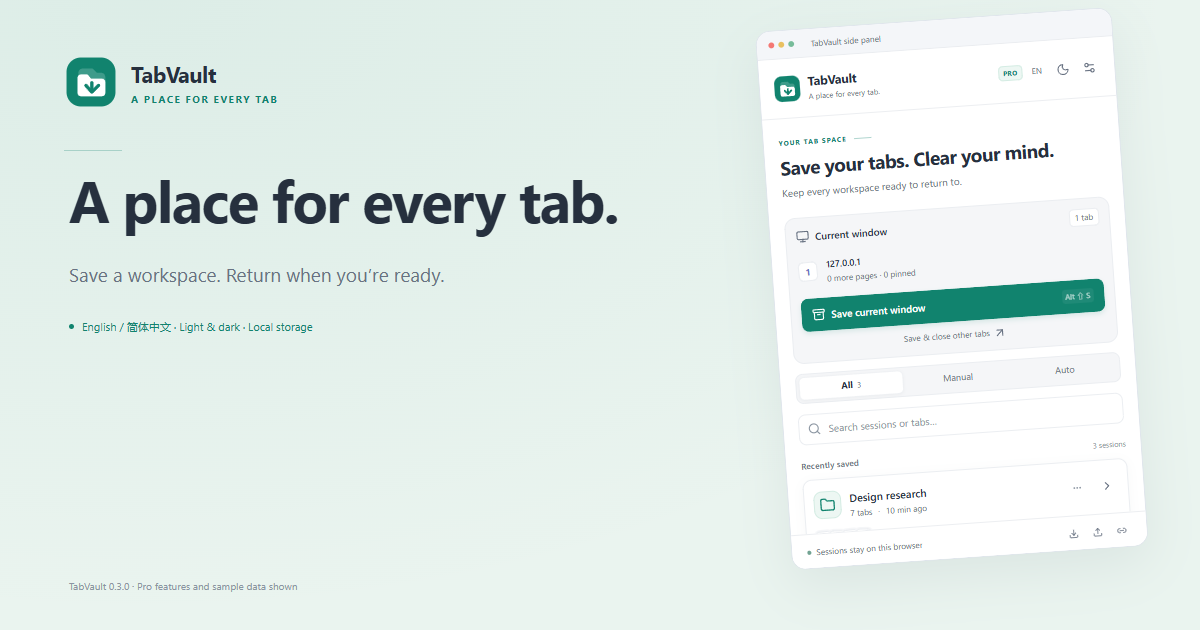
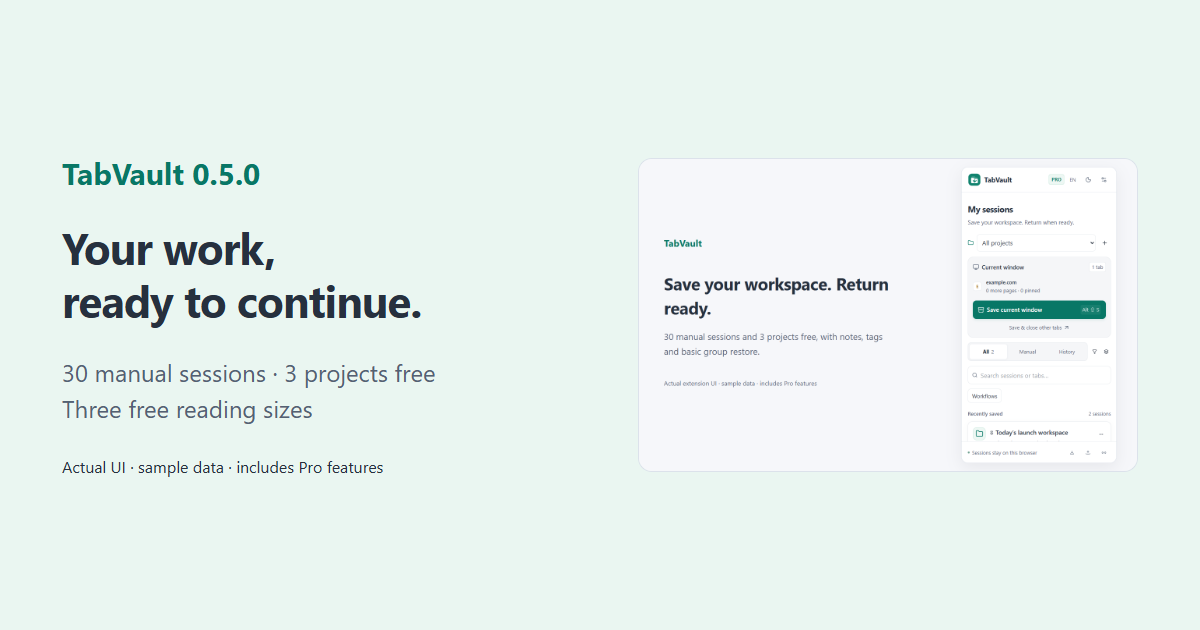
docs: align deployed product website with reading and workflow release

diff --git a/docs/index.html b/docs/index.html
@@ -1,6 +1,5 @@
 <!doctype html>
-<html lang="en"><head>
-<!-- Google tag (gtag.js) -->
+<html lang="en"><head><meta charset="utf-8"><meta name="viewport" content="width=device-width,initial-scale=1"><!-- Google tag (gtag.js) -->
 <script async src="https://www.googletagmanager.com/gtag/js?id=G-V2E93XDB2S"></script>
 <script>
   window.dataLayer = window.dataLayer || [];
@@ -8,11 +7,11 @@
   gtag('js', new Date());
   gtag('config', 'G-V2E93XDB2S', {allow_ad_personalization_signals: false});
 </script>
-<meta charset="utf-8"><meta name="viewport" content="width=device-width, initial-scale=1"><title>TabVault — A place for every tab.</title><meta name="description" content="Save a workspace. Return when you’re ready. Keep your tabs together, so your next session starts with a clear mind."><meta name="release-version" content="0.5.0"><link rel="icon" href="assets/icon-128.png"><link rel="canonical" href="https://tabvault.tabplugins.top/"><meta property="og:type" content="website"><meta property="og:title" content="TabVault — A place for every tab."><meta property="og:description" content="Save a workspace. Return when you’re ready. Keep your tabs together, so your next session starts with a clear mind."><meta property="og:image" content="https://tabvault.tabplugins.top/assets/social-1200x630.png"><meta property="og:image:width" content="1200"><meta property="og:image:height" content="630"><meta name="twitter:card" content="summary_large_image"><meta name="twitter:image" content="https://tabvault.tabplugins.top/assets/social-1200x630.png"><link rel="stylesheet" href="landing.css"><script src="landing.js" defer></script></head>
-<body style="--accent:#11836e;--soft:#eaf4ef"><div class="page"><header><a class="brand" href="./"><img src="assets/logo.svg" width="42" height="42" alt=""><strong>TabVault</strong></a><nav aria-label="Main"><a data-i18n="support" href="SUPPORT.html">Support</a><button id="language" type="button" aria-label="Switch to 简体中文">EN / 中</button></nav></header>
-<main><section class="hero"><div class="hero-copy"><span class="eyebrow" data-i18n="welcome">MADE FOR YOUR SIDEBAR</span><h1 data-i18n="headline">Your work, ready to continue.</h1><p class="lead" data-i18n="lead">Save a workspace. Return when you’re ready. Keep your tabs together, so your next session starts with a clear mind.</p><div class="actions"><a class="button primary" href="https://chromewebstore.google.com/detail/lcdbcmmcbonjgbjnagnbfpaadfnlaimm" data-i18n="install">Add to Chrome</a><a class="button secondary" href="https://pay-tabvault.tabplugins.top/buy" data-i18n="buy">Get Pro</a></div><p class="quiet" data-i18n="footer">Chrome 116+ · Local storage · No account required</p></div><figure class="hero-image"><img data-shot="01" src="assets/en/shot-01.png" alt="TabVault side panel with sample data" width="1280" height="800"><figcaption data-i18n="galleryNote">Actual interface with sample data and Pro features.</figcaption></figure></section>
-<section class="features"><h2 data-i18n="detail">Everything in its place.</h2><div class="feature-grid"><article><span class="number">01</span><h3 data-i18n="feature0">Save your workspace</h3><p data-i18n="body0">Save the HTTP/HTTPS tabs in a window, including repeated URLs and pinned tabs.</p></article><article><span class="number">02</span><h3 data-i18n="feature1">Continue a project</h3><p data-i18n="body1">Save up to 30 sessions in 3 projects for free, with notes, tags and browser group restoration.</p></article><article><span class="number">03</span><h3 data-i18n="feature2">Reuse your workspaces</h3><p data-i18n="body2">Pro adds history differences, named launch plans and cross-session cleanup. Snapshots stay local, with time, count and storage limits.</p></article></div></section>
-<section class="gallery"><div class="section-head"><h2 data-i18n="gallery">A calmer workspace.</h2><div class="quiet"><p data-i18n="language">Follows your browser. English fallback, with a manual language choice.</p><p data-i18n="theme">Light, dark, or follow your system.</p></div></div><div class="gallery-grid"><a class="shot-link" href="assets/en/shot-02.png" target="_blank" rel="noopener"><img data-shot="02" src="assets/en/shot-02.png" alt="TabVault feature 2" width="1280" height="800" loading="lazy"></a><a class="shot-link" href="assets/en/shot-03.png" target="_blank" rel="noopener"><img data-shot="03" src="assets/en/shot-03.png" alt="TabVault feature 3" width="1280" height="800" loading="lazy"></a><a class="shot-link" href="assets/en/shot-04.png" target="_blank" rel="noopener"><img data-shot="04" src="assets/en/shot-04.png" alt="TabVault feature 4" width="1280" height="800" loading="lazy"></a><a class="shot-link" href="assets/en/shot-05.png" target="_blank" rel="noopener"><img data-shot="05" src="assets/en/shot-05.png" alt="TabVault feature 5" width="1280" height="800" loading="lazy"></a></div></section>
-<section class="plans"><article><span class="eyebrow" data-i18n="free">Free</span><h2 data-i18n="free">Free</h2><ul id="free-features"><li>30 manual sessions · 3 projects</li><li>Notes, tags, pins and search</li><li>JSON backup and basic Markdown export</li><li>Selective restore, groups and duplicate skipping</li><li>Optional snapshots: up to 24 hours / 50 copies / 4 MB</li></ul><a class="button secondary" href="https://chromewebstore.google.com/detail/lcdbcmmcbonjgbjnagnbfpaadfnlaimm" data-i18n="install">Add to Chrome</a></article><article class="pro-plan"><span class="eyebrow" data-i18n="once">One-time $6 license</span><h2 data-i18n="pro">Pro</h2><ul id="pro-features"><li>More sessions and projects</li><li>History differences and batch recovery</li><li>Named launch plans across windows</li><li>Cross-session cleanup</li><li>Snapshots: up to 30 days / 500 copies / 4 MB</li></ul><a class="button primary" href="https://pay-tabvault.tabplugins.top/buy" data-i18n="buy">Get Pro</a></article></section>
-<section class="privacy"><span class="eyebrow">LOCAL FIRST</span><h2 data-i18n="privacyTitle">Your workspace stays local.</h2><p data-i18n="privacy">Sessions, snapshots and preferences stay in your browser. Automatic backup is off by default. It can restore content present in an existing snapshot. No extension usage analytics.</p><a href="PRIVACY.html" data-i18n="policy">Privacy policy</a></section></main>
-<footer><span>TabVault 0.4.1</span><div><a href="PRIVACY.html" data-i18n="policy">Privacy policy</a><a href="SUPPORT.html" data-i18n="support">Support</a><a href="https://tabtasks.tabplugins.top/" data-i18n="related">Explore TabTasks</a></div></footer></div></body></html>
+<title>TabVault — Your work, ready to continue.</title><meta name="description" content="Keep the pages and context that matter. Find missing tabs, reuse a named workspace, and return at your own pace."><meta name="release-version" content="0.5.0"><link rel="canonical" href="https://tabvault.tabplugins.top/"><link rel="icon" href="assets/icon-128.png"><meta property="og:type" content="website"><meta property="og:title" content="TabVault 0.5.0"><meta property="og:description" content="Keep the pages and context that matter. Find missing tabs, reuse a named workspace, and return at your own pace."><meta property="og:image" content="https://tabvault.tabplugins.top/assets/social-1200x630.png"><meta property="og:image:width" content="1200"><meta property="og:image:height" content="630"><meta name="twitter:card" content="summary_large_image"><meta name="twitter:image" content="https://tabvault.tabplugins.top/assets/social-1200x630.png"><link rel="stylesheet" href="landing.css"><script src="landing.js" defer></script></head>
+<body style="--accent:#087766;--soft:#eaf4ef"><div class="page"><header><a class="brand" href="./"><img src="assets/logo.svg" width="42" height="42" alt=""><strong>TabVault</strong></a><nav aria-label="Main"><a href="SUPPORT.html" data-i18n="support">Support</a><button id="language" type="button" aria-label="Switch to 简体中文">EN / 中</button></nav></header>
+<main><p class="release-note" data-i18n="releaseNote">This page presents TabVault 0.5.0. Store review and update distribution may take longer; check your installed version.</p><section class="hero"><div class="hero-copy"><span class="eyebrow" data-i18n="welcome">MADE FOR YOUR SIDEBAR</span><h1 data-i18n="headline">Your work, ready to continue.</h1><p class="lead" data-i18n="lead">Keep the pages and context that matter. Find missing tabs, reuse a named workspace, and return at your own pace.</p><div class="actions"><a class="button primary" href="https://chromewebstore.google.com/detail/lcdbcmmcbonjgbjnagnbfpaadfnlaimm" data-i18n="install">View in Chrome Web Store</a><a class="button secondary" href="https://pay-tabvault.tabplugins.top/buy" data-i18n="buy">Get Pro</a></div><p class="quiet" data-i18n="footer">Chrome 116+ · Local storage · No account required</p></div><figure class="hero-image"><img data-shot="01" src="assets/en/shot-01.png" alt="TabVault 0.5.0 side panel" width="1280" height="800"><figcaption data-i18n="galleryNote">Actual interface with sample data and Pro features.</figcaption></figure></section>
+<section class="features"><h2 data-i18n="detail">Everything in its place.</h2><div class="feature-grid"><article><span class="number">01</span><h3 data-i18n="feature0">Save your workspace</h3><p data-i18n="body0">Save up to 30 manual sessions in 3 projects for free. Keep notes, tags, pins and search alongside your saved pages.</p></article><article><span class="number">02</span><h3 data-i18n="feature1">Restore what you need</h3><p data-i18n="body1">Select pages, restore browser groups and pinned tabs, and skip already-open URLs for free. Compare records for free; Pro batch-recovers selected missing pages.</p></article><article><span class="number">03</span><h3 data-i18n="feature2">Reuse your workspaces</h3><p data-i18n="body2">Save named multi-window launch plans and apply cross-session cleanup with Pro. Review first, preserve source context, and undo the last supported local data change.</p></article><article><span class="number">04</span><h3 data-i18n="feature3">Comfortable to read</h3><p data-i18n="body3">Compact, standard or large text is free. Follow your browser language with English fallback, or switch between English and Simplified Chinese.</p></article></div></section>
+<section class="gallery"><div class="section-head"><h2 data-i18n="gallery">A calmer workspace.</h2><div class="quiet"><p data-i18n="language">Follows your browser. English fallback, with a manual language choice.</p><p data-i18n="theme">Light, dark, or follow your system.</p></div></div><div class="gallery-grid"><figure class="gallery-item"><a class="shot-link" href="assets/en/shot-02.png" target="_blank" rel="noopener"><img data-shot="02" src="assets/en/shot-02.png" alt="Compare real records · Pro batch recovery" width="1280" height="800" loading="lazy"></a><figcaption data-i18n="shot02">Compare real records · Pro batch recovery</figcaption></figure><figure class="gallery-item"><a class="shot-link" href="assets/en/shot-03.png" target="_blank" rel="noopener"><img data-shot="03" src="assets/en/shot-03.png" alt="Named multi-window launch plans · Pro" width="1280" height="800" loading="lazy"></a><figcaption data-i18n="shot03">Named multi-window launch plans · Pro</figcaption></figure><figure class="gallery-item"><a class="shot-link" href="assets/en/shot-04.png" target="_blank" rel="noopener"><img data-shot="04" src="assets/en/shot-04.png" alt="Review cross-session cleanup · Pro to apply" width="1280" height="800" loading="lazy"></a><figcaption data-i18n="shot04">Review cross-session cleanup · Pro to apply</figcaption></figure><figure class="gallery-item"><a class="shot-link" href="assets/en/shot-05.png" target="_blank" rel="noopener"><img data-shot="05" src="assets/en/shot-05.png" alt="Three reading sizes · free for everyone" width="1280" height="800" loading="lazy"></a><figcaption data-i18n="shot05">Three reading sizes · free for everyone</figcaption></figure></div></section>
+<section class="plans"><article class="free-plan"><span class="eyebrow" data-i18n="free">Free</span><h2 data-i18n="free">Free</h2><ul id="free-features"><li>30 manual sessions · 3 projects</li><li>Notes, tags, pins and title/URL search</li><li>JSON backup · basic Markdown and link export</li><li>Selected-page, group and pinned-tab restore</li><li>Skip open duplicates · preview differences</li><li>Preview launch editing and duplicate references</li><li>Three text sizes · local data-change undo</li><li>Optional snapshots: up to 24 hours / 50 / 4 MB</li></ul><a class="button primary" href="https://chromewebstore.google.com/detail/lcdbcmmcbonjgbjnagnbfpaadfnlaimm" data-i18n="install">View in Chrome Web Store</a></article><article class="pro-plan"><span class="eyebrow" data-i18n="once">One-time $6 license</span><h2 data-i18n="pro">Pro</h2><p class="price" data-i18n="price">$6 · one-time purchase</p><ul id="pro-features"><li>No manual-session or project count limits</li><li>Batch-recover selected missing pages</li><li>Save named multi-window launch plans</li><li>Apply reviewed cross-session cleanup</li><li>Advanced batch organization and project launch</li><li>CSV export</li><li>Snapshots: up to 30 days / 500 / 4 MB</li></ul><a class="button secondary" href="https://pay-tabvault.tabplugins.top/buy" data-i18n="buy">Get Pro</a></article></section><div class="plan-notes"><p data-i18n="limitNote">Automatic snapshots are off by default. Free: up to 24 hours / 50 snapshots; Pro: up to 30 days / 500. Both share a 4 MB total snapshot limit, so actual coverage can be shorter. Snapshot cleanup does not delete manual sessions.</p><p data-i18n="priceNote">Applicable tax is shown at checkout. Each product is purchased separately. Existing Pro licenses include this update.</p><p data-i18n="purchaseNote">Start in the extension for automatic activation after payment verification. Email recovery and existing license codes remain available.</p></div>
+<section class="faq"><h2 data-i18n="faqTitle">Before you start</h2><details><summary data-i18n="faqQ0">Is my content synced to a cloud?</summary><p data-i18n="faqA0">No. Content and reusable workflows stay in this browser. JSON backups are available on Free; export before changing devices or uninstalling. Credentials and Pro licenses are excluded. The extension has no usage analytics; website traffic analytics is separate.</p></details><details><summary data-i18n="faqQ1">What can a restore bring back?</summary><p data-i18n="faqA1">Saved URLs and supported tab metadata, including pinned tabs and browser groups. It does not restore passwords, logins, form inputs or unsaved page state. Launch plans open selected windows in sequence; stopping takes effect after the current window finishes. Automatic history can only restore records that were actually saved.</p></details><details><summary data-i18n="faqQ2">How does a Pro purchase work?</summary><p data-i18n="faqA2">Each product has an optional $6 one-time Pro purchase, with applicable tax shown at checkout. Purchases started in the extension support verified automatic activation. For another device, use purchase-email recovery or an existing license code.</p></details></section><section class="privacy"><span class="eyebrow">LOCAL FIRST</span><h2 data-i18n="privacyTitle">Your workspace stays local.</h2><p data-i18n="privacy">Sessions, snapshots and preferences stay in your browser. Automatic backup is off by default. It can restore content present in an existing snapshot. No extension usage analytics.</p><a href="PRIVACY.html" data-i18n="policy">Privacy policy</a></section></main>
+<footer><span data-i18n="versionLabel">Features shown: TabVault 0.5.0</span><div><a href="PRIVACY.html" data-i18n="policy">Privacy policy</a><a href="SUPPORT.html" data-i18n="support">Support</a><a href="https://tabtasks.tabplugins.top/" data-i18n="related">Explore TabTasks</a></div></footer></div></body></html>

diff --git a/docs/landing.js b/docs/landing.js
@@ -1,1 +1,3 @@
-const words={"headline":["Your work, ready to continue.","工作现场，随时继续。"],"lead":["Save a workspace. Return when you’re ready. Keep your tabs together, so your next session starts with a clear mind.","保存工作现场，随时继续思路。把标签页收在一起，让下一次开始更轻松。"],"install":["Add to Chrome","添加到 Chrome"],"buy":["Get Pro","购买 Pro"],"welcome":["MADE FOR YOUR SIDEBAR","为浏览器侧栏而设计"],"detail":["Everything in its place.","让每件事各有位置。"],"gallery":["A calmer workspace.","更安静的工作空间。"],"galleryNote":["Actual interface with sample data and Pro features.","实际界面，含示例数据与 Pro 功能。"],"free":["Free","免费版"],"pro":["Pro","Pro 专业版"],"once":["One-time $6 license","一次性 $6 买断"],"language":["Follows your browser. English fallback, with a manual language choice.","默认跟随浏览器语言，识别失败使用英文，也可手动选择。"],"theme":["Light, dark, or follow your system.","浅色、深色或跟随系统。"],"privacyTitle":["Your workspace stays local.","工作空间保存在本机。"],"privacy":["Sessions, snapshots and preferences stay in your browser. Automatic backup is off by default. It can restore content present in an existing snapshot. No extension usage analytics.","会话、快照与偏好保存在浏览器本机。自动备份默认关闭，只能恢复已有快照中的内容；插件内不收集使用统计。"],"policy":["Privacy policy","隐私政策"],"support":["Support","支持"],"related":["Explore TabTasks","看看 TabTasks"],"footer":["Chrome 116+ · Local storage · No account required","Chrome 116+ · 本地存储 · 无需账号"],"feature0":["Save your workspace","收好工作现场"],"body0":["Save the HTTP/HTTPS tabs in a window, including repeated URLs and pinned tabs.","保存窗口中的 HTTP/HTTPS 网页，包括重复网址和固定标签。"],"feature1":["Continue a project","继续每个项目"],"body1":["Save up to 30 sessions in 3 projects for free, with notes, tags and browser group restoration.","免费保存 30 个会话、创建 3 个项目，使用备注、标签和浏览器分组恢复。"],"feature2":["Reuse your workspaces","复用工作现场"],"body2":["Pro adds history differences, named launch plans and cross-session cleanup. Snapshots stay local, with time, count and storage limits.","Pro 提供历史差异找回、命名启动方案和跨会话整理。快照保存在本机，受时间、份数与容量约束。"]},plans={"free":["30 manual sessions · 3 projects|Notes, tags, pins and search|JSON backup and basic Markdown export|Selective restore, groups and duplicate skipping|Optional snapshots: up to 24 hours / 50 copies / 4 MB","30 个手动会话 · 3 个项目|备注、标签、置顶与搜索|JSON 备份与基本 Markdown 导出|选择标签恢复、分组与跳过重复|可选快照：最长 24 小时 / 50 份 / 4 MB"],"pro":["More sessions and projects|History differences and batch recovery|Named launch plans across windows|Cross-session cleanup|Snapshots: up to 30 days / 500 copies / 4 MB","更多会话与项目|历史差异与批量找回|跨窗口命名启动方案|跨会话整理|快照：最长 30 天 / 500 份 / 4 MB"]};let lang=/^zh(?:-|$)/i.test(navigator.language||'')?'zh':'en';try{const saved=localStorage.getItem('tabvault_site_language');if(['en','zh'].includes(saved))lang=saved}catch{}function render(){const index=lang==='zh'?1:0;document.documentElement.lang=lang==='zh'?'zh-CN':'en';for(const node of document.querySelectorAll('[data-i18n]'))node.textContent=words[node.dataset.i18n][index];for(const node of document.querySelectorAll('[data-shot]')){node.src='assets/'+lang+'/shot-'+node.dataset.shot+'.png';if(node.parentElement.classList.contains('shot-link'))node.parentElement.href=node.src}for(const key of ['free','pro']){const ul=document.getElementById(key+'-features');ul.replaceChildren(...plans[key][index].split('|').map(text=>{const li=document.createElement('li');li.textContent=text;return li}))}document.getElementById('language').setAttribute('aria-label',lang==='en'?'Switch to 简体中文':'Switch to English')}document.getElementById('language').addEventListener('click',()=>{lang=lang==='en'?'zh':'en';try{localStorage.setItem('tabvault_site_language',lang)}catch{}render()});render();
+const words={"headline":["Your work, ready to continue.","工作现场，随时继续。"],"lead":["Keep the pages and context that matter. Find missing tabs, reuse a named workspace, and return at your own pace.","收好页面与项目背景，找回缺页、复用命名工作台，按自己的节奏继续。"],"install":["View in Chrome Web Store","前往 Chrome 商店"],"buy":["Get Pro","购买 Pro"],"welcome":["MADE FOR YOUR SIDEBAR","为浏览器侧栏而设计"],"detail":["Everything in its place.","让每件事各有位置。"],"gallery":["A calmer workspace.","更安静的工作空间。"],"galleryNote":["Actual interface with sample data and Pro features.","实际界面，含示例数据与 Pro 功能。"],"free":["Free","免费版"],"pro":["Pro","Pro 专业版"],"once":["One-time $6 license","一次性 $6 买断"],"language":["Follows your browser. English fallback, with a manual language choice.","默认跟随浏览器语言，识别失败使用英文，也可手动选择。"],"theme":["Light, dark, or follow your system.","浅色、深色或跟随系统。"],"privacyTitle":["Your workspace stays local.","工作空间保存在本机。"],"privacy":["Sessions, snapshots and preferences stay in your browser. Automatic backup is off by default. It can restore content present in an existing snapshot. No extension usage analytics.","会话、快照与偏好保存在浏览器本机。自动备份默认关闭，只能恢复已有快照中的内容；插件内不收集使用统计。"],"policy":["Privacy policy","隐私政策"],"support":["Support","支持"],"related":["Explore TabTasks","看看 TabTasks"],"footer":["Chrome 116+ · Local storage · No account required","Chrome 116+ · 本地存储 · 无需账号"],"feature0":["Save your workspace","收好工作现场"],"body0":["Save up to 30 manual sessions in 3 projects for free. Keep notes, tags, pins and search alongside your saved pages.","免费保存 30 个手动会话、创建 3 个项目，将备注、标签、置顶和搜索与网页资料放在一起。"],"feature1":["Restore what you need","恢复需要的页面"],"body1":["Select pages, restore browser groups and pinned tabs, and skip already-open URLs for free. Compare records for free; Pro batch-recovers selected missing pages.","选页恢复、浏览器分组、固定标签与跳过已打开网址免费。差异比较免费预览，Pro 可批量找回所选缺页。"],"feature2":["Reuse your workspaces","复用工作现场"],"body2":["Save named multi-window launch plans and apply cross-session cleanup with Pro. Review first, preserve source context, and undo the last supported local data change.","Pro 可保存多窗口命名启动方案、应用跨会话整理。先预览再操作，保留来源背景，并可撤销最近一次受支持的本地数据修改。"],"releaseNote":["This page presents TabVault 0.5.0. Store review and update distribution may take longer; check your installed version.","本页介绍 TabVault 0.5.0。商店审核与更新分发可能存在时间差，请以实际安装版本为准。"],"versionLabel":["Features shown: TabVault 0.5.0","本页功能版本：TabVault 0.5.0"],"feature3":["Comfortable to read","用舒服的字号继续"],"body3":["Compact, standard or large text is free. Follow your browser language with English fallback, or switch between English and Simplified Chinese.","紧凑、标准、大字均免费。默认跟随浏览器语言，识别失败或未支持时使用英文，也可手动切换中英文。"],"price":["$6 · one-time purchase","$6 · 一次性买断"],"priceNote":["Applicable tax is shown at checkout. Each product is purchased separately. Existing Pro licenses include this update.","适用税费以结账页为准，两款产品分别购买。已有 Pro 授权包含本次更新。"],"purchaseNote":["Start in the extension for automatic activation after payment verification. Email recovery and existing license codes remain available.","从插件内发起购买，经服务核验付款后自动激活；也支持邮箱恢复和已有授权码。"],"faqTitle":["Before you start","开始前，了解这几件事"],"faqQ0":["Is my content synced to a cloud?","内容会同步到云端吗？"],"faqA0":["No. Content and reusable workflows stay in this browser. JSON backups are available on Free; export before changing devices or uninstalling. Credentials and Pro licenses are excluded. The extension has no usage analytics; website traffic analytics is separate.","不会。内容与可复用流程保存在本机浏览器。JSON 备份免费，换设备或卸载前请先导出；备份不含凭证和 Pro 授权。插件内不收集使用统计，官网访问统计另行披露。"],"faqQ2":["How does a Pro purchase work?","Pro 怎样购买和恢复？"],"faqA2":["Each product has an optional $6 one-time Pro purchase, with applicable tax shown at checkout. Purchases started in the extension support verified automatic activation. For another device, use purchase-email recovery or an existing license code.","每款 Pro 均为可选的 $6 一次性买断，税费以结账页为准。从插件发起购买后支持核验并自动激活；换设备可用购买邮箱恢复或已有授权码。"],"limitNote":["Automatic snapshots are off by default. Free: up to 24 hours / 50 snapshots; Pro: up to 30 days / 500. Both share a 4 MB total snapshot limit, so actual coverage can be shorter. Snapshot cleanup does not delete manual sessions.","自动快照默认关闭。免费最长 24 小时／50 份，Pro 最长 30 天／500 份，两者均受快照合计 4 MB 限制，实际范围可能更短。快照清理不删除手动会话。"],"faqQ1":["What can a restore bring back?","恢复能带回哪些内容？"],"faqA1":["Saved URLs and supported tab metadata, including pinned tabs and browser groups. It does not restore passwords, logins, form inputs or unsaved page state. Launch plans open selected windows in sequence; stopping takes effect after the current window finishes. Automatic history can only restore records that were actually saved.","恢复已保存的网址及受支持的固定状态、浏览器分组等元数据，不恢复密码、登录态、表单输入或未提交网页状态。启动方案按窗口依次打开，停止在当前窗口处理完后生效；自动历史只能找回实际已保存的记录。"],"shot02":["Compare real records · Pro batch recovery","对比真实记录 · Pro 批量找回"],"shot03":["Named multi-window launch plans · Pro","多窗口命名启动方案 · Pro"],"shot04":["Review cross-session cleanup · Pro to apply","跨会话整理预览 · Pro 应用清理"],"shot05":["Three reading sizes · free for everyone","三档阅读字号 · 所有用户免费"]},plans={"free":["30 manual sessions · 3 projects|Notes, tags, pins and title/URL search|JSON backup · basic Markdown and link export|Selected-page, group and pinned-tab restore|Skip open duplicates · preview differences|Preview launch editing and duplicate references|Three text sizes · local data-change undo|Optional snapshots: up to 24 hours / 50 / 4 MB","30 个手动会话 · 3 个项目|备注、标签、置顶与标题／网址搜索|JSON 备份 · 基本 Markdown／链接导出|选页、浏览器分组及固定标签恢复|跳过已打开网址 · 差异预览|启动方案编辑与重复引用预览|三档字号 · 最近一次本地数据修改撤销|可选快照：最长 24 小时／50 份／4 MB"],"pro":["No manual-session or project count limits|Batch-recover selected missing pages|Save named multi-window launch plans|Apply reviewed cross-session cleanup|Advanced batch organization and project launch|CSV export|Snapshots: up to 30 days / 500 / 4 MB","解除手动会话与项目数量限制|批量找回所选缺页|保存多窗口命名启动方案|预览后应用跨会话整理|高级批量整理与项目启动|CSV 导出|快照：最长 30 天／500 份／4 MB"]};let lang='en';try{lang=/^zh(?:-|$)/i.test(navigator.language||'')?'zh':'en'}catch{}try{const saved=localStorage.getItem('tabvault_site_language');if(['en','zh'].includes(saved))lang=saved}catch{}
+function render(){const index=lang==='zh'?1:0;document.documentElement.lang=lang==='zh'?'zh-CN':'en';for(const node of document.querySelectorAll('[data-i18n]'))node.textContent=words[node.dataset.i18n][index];for(const node of document.querySelectorAll('[data-shot]')){node.src='assets/'+lang+'/shot-'+node.dataset.shot+'.png';node.alt=node.dataset.shot==='01'?'TabVault 0.5.0 · '+words.galleryNote[index]:words['shot'+node.dataset.shot][index];if(node.parentElement.classList.contains('shot-link'))node.parentElement.href=node.src}for(const key of ['free','pro']){document.getElementById(key+'-features').replaceChildren(...plans[key][index].split('|').map(text=>{const li=document.createElement('li');li.textContent=text;return li}))}document.getElementById('language').setAttribute('aria-label',lang==='en'?'Switch to 简体中文':'Switch to English')}
+document.getElementById('language').addEventListener('click',()=>{lang=lang==='en'?'zh':'en';try{localStorage.setItem('tabvault_site_language',lang)}catch{}render()});render();

diff --git a/docs/SUPPORT.html b/docs/SUPPORT.html
@@ -1,11 +1,11 @@
-<!doctype html><html lang="en"><head><meta charset="utf-8"><meta name="viewport" content="width=device-width,initial-scale=1"><title>TabVault — Support 支持中心</title><style>body{font:15px/1.8 system-ui,"Segoe UI","Microsoft YaHei",sans-serif;max-width:760px;margin:40px auto;padding:0 22px;color:#26303e}h1{font-size:28px}h2{font-size:21px;margin-top:36px}h3{font-size:16px;margin:24px 0 6px}a{color:#6154df}.date,footer{color:#738094;font-size:13px}footer{margin-top:40px;border-top:1px solid #e1e7ef;padding-top:16px}</style></head><body><h1>TabVault — Support 支持中心</h1><p class="date">Updated / 生效日期：2026-10-09</p><h2>English</h2><h3>Open and update</h3><p>Click the toolbar icon. Chrome 116+ is required. Update the existing extension without uninstalling, which deletes local content. Alt+Shift+S saves the current window.</p>
+<!doctype html><html lang="en"><head><meta charset="utf-8"><meta name="viewport" content="width=device-width,initial-scale=1"><title>TabVault — Support 支持中心</title><style>body{font:16px/1.8 system-ui,"Segoe UI","Microsoft YaHei",sans-serif;max-width:760px;margin:40px auto;padding:0 22px;color:#26303e}h1{font-size:28px}h2{font-size:21px;margin-top:36px}h3{font-size:16px;margin:24px 0 6px}a{color:#6154df}.date,footer{color:#738094;font-size:13px}footer{margin-top:40px;border-top:1px solid #e1e7ef;padding-top:16px}</style></head><body><h1>TabVault — Support 支持中心</h1><p class="date">Updated / 生效日期：2026-10-17</p><h2>English</h2><h3>Reading and language</h3><p>This page describes TabVault 0.5.0. Choose Compact, Standard or Large in Settings for free. The default follows browser language, with English fallback; EN / 中 switches manually. Check your installed version because store review and distribution can lag behind this page.</p><h3>Open and update</h3><p>Click the toolbar icon. Chrome 116+ is required. Update the existing extension without uninstalling, which deletes local content. Alt+Shift+S saves the current window.</p>
 <h3>Activate or restore Pro</h3><p>Use Settings → Explore Pro to buy. Purchases started inside the extension activate automatically after verified payment. If you closed checkout, open the panel and check payment status; avoid paying again. In purchase management, Restore purchase verifies the checkout email. If email recovery is not configured, use Have a license code? with your saved code or contact support privately. Website purchases and older extension versions can use the fallback code.</p>
-<h3>Local backups</h3><p>JSON import/export is free. Old over-quota backups remain readable, restorable and exportable; the creation quota applies only to new manual saves. Projects and advanced organization require Pro.</p>
-<h3>History and restore</h3><p>Auto-backup is off by default. Enable it in Settings; Chrome must be running. The interval starts at 15 minutes and incognito windows are excluded. Free keeps 3 recent snapshots; Pro up to 30 days, 500 snapshots and 4 MB across windows. Manual sessions are kept separately. Restore URLs, order and pinned state; Pro can also restore browser groups and skip open duplicate URLs. Project restore opens one window per saved session. Partial or skipped restores preserve the original session even with delete-after-restore enabled. Page form state is not saved.</p>
+<h3>Local backups</h3><p>JSON import/export is free. Old over-quota backups remain readable, restorable and exportable; the creation quota applies only to new manual saves. Free includes 3 projects, session notes/tags/pins, selected-page/group restore and duplicate skipping. Pro removes manual-session/project count limits and adds advanced organization, batch missing-page recovery, named launch plans and reviewed cleanup.</p>
+<h3>History and restore</h3><p>Auto-backup is off by default. Enable it in Settings; Chrome must be running. The interval starts at 15 minutes and incognito windows are excluded. Free retains up to 24 hours and 50 snapshots; Pro up to 30 days and 500. Both have a total snapshot limit of 4 MB, so actual coverage may be shorter. Manual sessions are kept separately. Restore URLs, order and pinned state; Browser-group restore and skipping open duplicate URLs are available on Free. Project restore opens one window per saved session. Partial or skipped restores preserve the original session even with delete-after-restore enabled. Page form state is not saved.</p>
 <h3>Refunds</h3><p>Request a full refund within 14 days of purchase using your Stripe receipt, by emailing <a href="mailto:support@tabplugins.top?subject=TabVault%20support">support@tabplugins.top</a>. Older purchases are handled case by case. Refunds prevent new server license retrieval; already activated offline licenses are not automatically revoked.</p>
-<h3>Contact</h3><p>For bugs, purchase help, refunds or privacy requests, email <a href="mailto:support@tabplugins.top?subject=TabVault%20support">support@tabplugins.top</a>. Include the product name, extension version and a description. For an order request, include your Stripe receipt or checkout reference privately. Never send API keys or license codes. Replies within 2 business days.</p><h2>中文</h2><h3>打开与更新</h3><p>点击工具栏图标，需要 Chrome 116+。直接更新原扩展；卸载会删除本地内容。Alt+Shift+S 保存当前窗口。</p>
+<h3>Contact</h3><p>For bugs, purchase help, refunds or privacy requests, email <a href="mailto:support@tabplugins.top?subject=TabVault%20support">support@tabplugins.top</a>. Include the product name, extension version and a description. For an order request, include your Stripe receipt or checkout reference privately. Never send API keys or license codes. Replies within 2 business days.</p><h2>中文</h2><h3>字号与语言</h3><p>本页介绍 TabVault 0.5.0。在设置中免费选择紧凑、标准或大字。默认跟随浏览器语言，未支持或识别失败时用英文，EN／中可手动切换。商店审核与分发可能滞后，请核对实际安装版本。</p><h3>打开与更新</h3><p>点击工具栏图标，需要 Chrome 116+。直接更新原扩展；卸载会删除本地内容。Alt+Shift+S 保存当前窗口。</p>
 <h3>激活与恢复购买</h3><p>在设置 → 了解 Pro 中购买，确认付款后会自动激活。关闭付款页后也可返回插件检查付款状态，请勿重复付款。“管理购买”中的“恢复购买”通过结账邮箱验证码核实。若邮件服务暂未配置，可在“已有授权码？”输入保存的授权码，或私下联系支持。从网站购买及旧版插件可使用备用授权码。</p>
-<h3>本地备份</h3><p>JSON 导入导出免费；旧备份即使超过免费额度仍可阅读、恢复和导出，额度仅限制新建手动会话。项目空间和高级整理需要 Pro。</p>
-<h3>历史与恢复</h3><p>自动备份默认关闭，在设置主动开启，Chrome 需运行；默认间隔 15 分钟，排除隐身窗口。免费保留最近 3 份，Pro 跨窗口最长 30 天、最多 500 份、合计 4 MB。手动会话单独保留。恢复网址、顺序和固定状态；Pro 另可恢复浏览器分组并跳过已打开的重复网址。按项目恢复时，每个已保存会话打开一个窗口。部分恢复或跳过页面时，即使开启恢复后删除，也保留原会话。不恢复网页表单状态。</p>
+<h3>本地备份</h3><p>JSON 导入导出免费；旧备份即使超过免费额度仍可阅读、恢复和导出，额度仅限制新建手动会话。免费包含 3 个项目、会话备注／标签／置顶、选页及分组恢复和跳过已打开网址；Pro 解除手动会话／项目数量限制，并增加高级整理、缺页批量找回、命名启动方案及预览后应用整理。</p>
+<h3>历史与恢复</h3><p>自动备份默认关闭，在设置主动开启，Chrome 需运行；默认间隔 15 分钟，排除隐身窗口。免费最长 24 小时、最多 50 份；Pro 最长 30 天、最多 500 份，两者均受快照合计 4 MB 限制，实际范围可能更短。手动会话单独保留。恢复网址、顺序和固定状态；浏览器分组恢复和跳过已打开的重复网址免费可用。按项目恢复时，每个已保存会话打开一个窗口。部分恢复或跳过页面时，即使开启恢复后删除，也保留原会话。不恢复网页表单状态。</p>
 <h3>退款</h3><p>购买后 14 天内可凭 Stripe 收据发送邮件至 <a href="mailto:support@tabplugins.top?subject=TabVault%20support">support@tabplugins.top</a> 申请全额退款；超过 14 天逐单处理。退款阻止服务器重新签发，已激活的离线授权不会自动撤销。</p>
 <h3>联系</h3><p>问题反馈、购买帮助、退款或隐私申请，请发送邮件至 <a href="mailto:support@tabplugins.top?subject=TabVault%20support">support@tabplugins.top</a>。请注明产品名称、插件版本和问题描述；订单问题可在邮件中附 Stripe 收据或付款编号。请勿发送 API Key 或授权码。两个工作日内回复。</p><footer><a href="./">TabVault</a> · <a href="PRIVACY.html">Privacy</a> · <a href="SUPPORT.html">Support</a></footer></body></html>

diff --git a/docs/landing.css b/docs/landing.css
@@ -1,1 +1,3 @@
 *{box-sizing:border-box}html{scroll-behavior:smooth}body{margin:0;background:#fafbfd;color:#26303e;font-family:Inter,"Segoe UI","Microsoft YaHei",sans-serif;line-height:1.65}a{color:inherit;text-decoration:none}button,a{ -webkit-tap-highlight-color:transparent}a:focus-visible,button:focus-visible{outline:3px solid var(--accent);outline-offset:4px}button{font:inherit;cursor:pointer}.page{max-width:1250px;margin:auto;padding:0 44px}header{height:106px;display:flex;align-items:center;justify-content:space-between;border-bottom:1px solid #e5e9ef}.brand{display:flex;gap:12px;align-items:center}.brand strong{font-size:21px;letter-spacing:-.6px}nav{display:flex;gap:24px;align-items:center;font-size:13px}nav button{border:1px solid #dbe1e9;border-radius:10px;background:white;padding:7px 12px;color:#647184}.hero{display:grid;grid-template-columns:.9fr 1.1fr;gap:45px;align-items:center;padding:82px 0 75px}.eyebrow{font-size:10px;letter-spacing:2px;color:var(--accent);font-weight:650}.hero h1{font-size:clamp(38px,4.5vw,60px);line-height:1.12;letter-spacing:-2.2px;margin:21px 0}.lead{color:#657283;font-size:17px;max-width:450px;line-height:1.8}.actions{display:flex;gap:12px;flex-wrap:wrap;margin:30px 0 19px}.button{border-radius:10px;font-size:13px;padding:11px 19px;display:inline-block;transition:transform .18s,box-shadow .18s}.button:hover{transform:translateY(-2px);box-shadow:0 5px 16px #26303e10}.primary{background:var(--accent);color:white}.secondary{border:1px solid #dce2eb;background:white}.quiet{font-size:11px;color:#7c8898}.quiet p{margin:4px 0}.hero-image{margin:0;min-width:0}.hero-image img{width:100%;height:auto;border-radius:17px;box-shadow:0 15px 45px #26303e10}.hero-image figcaption{font-size:10px;color:#8793a3;margin-top:10px;text-align:right}h2{font-size:28px;letter-spacing:-.9px;margin:0 0 24px}h3{font-size:17px;margin:13px 0 7px;letter-spacing:-.3px}.features{padding:45px 0 68px;border-top:1px solid #e5e9ef}.feature-grid{display:grid;grid-template-columns:repeat(3,1fr);gap:18px}.feature-grid article{padding:26px;background:white;border:1px solid #e5e9ef;border-radius:14px}.number{font-size:10px;color:var(--accent);letter-spacing:2px}.feature-grid p{font-size:13px;color:#6b7788;margin:0}.section-head{display:flex;gap:20px;align-items:start;justify-content:space-between}.gallery-grid{display:grid;grid-template-columns:1fr 1fr;gap:20px}.gallery-grid img{width:100%;height:auto;display:block;border-radius:13px}.shot-link{display:block;border:1px solid #e5e9ef;border-radius:13px;overflow:hidden;background:var(--soft)}.plans{display:grid;grid-template-columns:1fr 1fr;gap:20px;padding:74px 0}.plans article{border:1px solid #e0e6ef;border-radius:16px;padding:34px;background:white}.plans h2{margin:10px 0 15px}.plans ul{padding-left:18px;color:#657283;font-size:13px;line-height:2.1;min-height:120px}.plans .pro-plan{background:var(--soft);border-color:transparent}.privacy{padding:40px;border-radius:16px;background:white;border:1px solid #e5e9ef;margin-bottom:65px}.privacy h2{margin:10px 0 15px}.privacy p{font-size:13px;color:#6b7788;max-width:800px}.privacy a{font-size:12px;color:var(--accent)}footer{border-top:1px solid #e5e9ef;padding:25px 0 35px;display:flex;gap:15px;justify-content:space-between;font-size:11px;color:#7c8898}footer div{display:flex;gap:21px}@media(max-width:850px){.page{padding:0 24px}.hero{grid-template-columns:1fr;padding:50px 0;gap:25px}.hero h1{font-size:49px}.hero-image{max-width:680px}.feature-grid{grid-template-columns:1fr}.plans{padding:45px 0}.plans article{padding:24px}.section-head{flex-direction:column;gap:0;margin-bottom:22px}}@media(max-width:480px){.page{padding:0 18px}header{height:83px}nav{gap:10px}nav a{max-width:70px;line-height:1.4;font-size:10px}.brand strong{font-size:19px}.brand img{width:35px;height:35px}.hero h1{font-size:39px;letter-spacing:-1.3px}.lead{font-size:15px}.gallery-grid,.plans{grid-template-columns:1fr}.plans{gap:15px}.privacy{padding:25px}.section-head h2{font-size:25px}footer{flex-direction:column}footer div{gap:16px;flex-wrap:wrap}}@media(prefers-reduced-motion:reduce){html{scroll-behavior:auto}.button{transition:none}.button:hover{transform:none}}
+/* Reading release website */
+body{font-size:16px}.button{font-size:15px;min-height:44px;display:inline-flex;align-items:center;justify-content:center}.quiet{font-size:14px;color:#596779}.eyebrow,.number{font-size:12px}.lead{font-size:18px}.hero-image figcaption,.gallery-item figcaption{font-size:13px;color:#596779;margin-top:12px}.feature-grid{grid-template-columns:repeat(2,minmax(0,1fr))}.feature-grid p,.privacy p{font-size:16px;color:#536173}.feature-grid h3{font-size:20px}.feature-grid article{min-width:0}.gallery-item{margin:0;min-width:0}.plans article{display:flex;flex-direction:column;min-width:0}.plans ul{font-size:16px;line-height:1.85;min-height:0;color:#536173}.plans .button{margin-top:auto;align-self:flex-start}.price{font-size:23px;font-weight:650;margin:0}.plans{padding-bottom:22px}.plan-notes{font-size:15px;color:#536173;margin:0 0 60px}.release-note{font-size:14px;background:var(--soft);border-radius:10px;padding:14px 18px;margin:24px 0 0;color:#465467}.hero{padding-top:50px}.privacy a,footer{font-size:14px}.faq{margin:0 0 60px}.faq details{border-top:1px solid #dce2eb;padding:20px 0}.faq summary{font-size:18px;font-weight:600;cursor:pointer}.faq p{font-size:16px;color:#536173;max-width:900px}nav{font-size:14px}nav button{min-height:44px;color:#465467}p,li,figcaption{overflow-wrap:anywhere}footer{color:#596779}@media(max-width:850px){.feature-grid{grid-template-columns:1fr}}@media(max-width:480px){nav a{font-size:13px}.hero h1{font-size:36px}.lead{font-size:17px}.release-note{font-size:14px}.plans article{padding:24px}.plans ul{font-size:15px}footer{font-size:13px}}

diff --git a/site/product-rollout-2026-10-17.md b/site/product-rollout-2026-10-17.md
@@ -1,0 +1,52 @@
+# 两款产品官网图文核对与部署记录 · 2026-10-17
+
+已按运营方最新要求直接部署新版产品首页，取代此前“等发布窗口再同步首页”的安排。只更新静态网站，插件安装包与支付服务未改变。
+
+## 正式地址及功能版本
+
+| 网站 | 本页介绍版本 | 核对时商店公开版本 |
+| --- | --- | --- |
+| https://tabtasks.tabplugins.top/ | TabTasks 0.6.0 | 0.5.1 |
+| https://tabvault.tabplugins.top/ | TabVault 0.5.0 | 0.4.1 |
+
+两款首页均在页首注明本页功能版本、商店审核与更新分发可能滞后，以及以实际安装版本为准。安装入口保留原扩展ID，并改用“前往Chrome商店”，没有声称商店已经提供新版。核对时刻和原条目版本见store-availability.json。
+
+## 修正的差异
+
+| 内容 | 本轮同步结果 |
+| --- | --- |
+| 免费额度 | TabTasks 30个活动任务／3个自定义列表，内置列表和已完成任务不计；TabVault 30个手动会话／3个项目 |
+| 已放开的基础权益 | 标签、备注、备份等按实际代码开放；纠正支持页中JSON备份需Pro、项目和分组全需Pro的旧说法 |
+| TabTasks新功能 | 免费1个模板、1个智能视图、单任务自带Key AI；Pro多模板／变量／跨列表批量启动、分组置顶、多任务AI与常用指令 |
+| TabVault新功能 | 免费差异与重复引用预览、选页／分组／固定状态恢复、跳过已打开网址；Pro缺页批量找回、命名多窗口启动方案、应用跨会话整理、高级整理和CSV |
+| 阅读与语言 | 明确三档字号免费，默认跟随浏览器、未支持或识别失败用英文，保留EN／中切换与记忆 |
+| 自动快照 | 默认关闭；免费最长24小时／50份，Pro最长30天／500份，均受合计4 MB限制，实际范围可能更短 |
+| AI与恢复边界 | 两种兼容API、自带Key、调用费另收；仅披露字段发送。恢复不承诺密码、登录态、表单或未提交状态 |
+| 购买说明 | 各款$6一次性买断、税费以结账页为准、旧Pro覆盖本次更新；插件内发起可核验自动激活，邮箱与旧码可恢复 |
+| 图片 | 两款中英文各5张共20张，与本轮运行版本的商店截图逐字节一致；重新生成1200×630分享图，移除旧JPEG截图和过时横幅的公开访问 |
+| 一致性 | 更新页脚版本、英文静态回退、中文动态文字、支持页、llms.txt、元信息和站点地图，不保留只改JS后静态HTML仍旧的矛盾 |
+
+页面只展示当前已实现功能，没有宣传后续计划中的重复任务、规则、复盘、智能集合或会话版本。所有截图为真实插件界面、示例数据，注明含Pro功能。官网不增加GitHub或源码入口。
+
+## 测试与线上核对
+
+- 本地24个、线上24个首页场景通过：两款×English／简体中文／法语浏览器×320／390／768／1440px。
+- 法语回退英文，手动中英文切换并刷新后记忆；无JavaScript时静态英文、额度与版本仍可读。
+- 每种语言5张图片加载正确、无横向溢出、按钮至少44px且文字可见；查看了桌面、手机及两张分享图。
+- 44个实际发布文件逐项核对；HTML比对排除Cloudflare自动注入的统计脚本及body闭合前的附加空白，其他内容按哈希核对。
+- 原GA4标签保留，Cloudflare边缘统计脚本一份；内部文档和旧宣传图返回404。总首页TabVault按钮的已有修复保持正常。
+- 两款支付状态正常，自动激活和邮箱恢复仍启用；支付Worker的etag和modified_on未变化。未创建订单、扣款、发验证码或修改D1／Stripe／Resend／DNS。
+- 原TabTasks 0.6.0和TabVault 0.5.0运行ZIP的SHA256与交付时一致，不需要重打插件包或撤回商店审核。
+
+## 本轮网站部署版本
+
+| Worker | Cloudflare版本 |
+| --- | --- |
+| tabtasks-site | 02343f41-f153-4d1c-8e86-bab3c1e2cac2 |
+| tabvault-site | 59dc8f0b-66b7-4acb-8330-6aed8f76d07a |
+
+## 后续与留档
+
+商店审核通过并发布后，核对实际可安装版本，届时可将页首的商店更新提示调整为正式发布状态。官网这次已经部署完成，无需再等一次发布窗口。
+
+本次保留部署前已知静态快照、前后部署记录、完整发布文件清单、本地和线上截图、浏览器结果、内容与额度核对、商店版本观察以及本报告。before目录来自上一轮已验证的正式部署快照；回退时以previous-deployments.json中的原Cloudflare部署为准，不把HTTP响应层的自动统计脚本写回静态HTML。

diff --git a/site/README.md b/site/README.md
@@ -6,4 +6,8 @@ The docs/.assetsignore allowlist publishes product pages and visual assets only.
 
 ## Privacy-only rollout · 2026-10-17
 
-The store update is under review. This rollout publishes the current PRIVACY.html using a staged copy of the existing live website, preserving its homepage, landing scripts, support page and visual assets. New product benefits and screenshots in the source tree remain scheduled for the store release window; do not publish the full current docs directory as part of a privacy-only change. Billing is unchanged. See rollout-2026-10-17.md for deployment and validation records.
+The initial rollout published PRIVACY.html using a staged copy of the existing live website and preserved its homepage and screenshots. See rollout-2026-10-17.md for that historical deployment. Billing was unchanged.
+
+## Full product-page rollout · 2026-10-17
+
+The owner subsequently requested immediate publication of the new product pages, superseding the earlier hold on homepage copy and screenshots. The homepage now describes 0.5.0 and uses its English/Chinese release screenshots, updated feature comparison, support text, reading options and social preview. The public store still showed 0.4.1 when checked; a visible bilingual notice distinguishes the described version from actual store availability. No extension or payment backend was deployed. Old screenshot JPEGs and the obsolete promotional banner are excluded from static publication. See product-rollout-2026-10-17.md for validation and deployment records.
